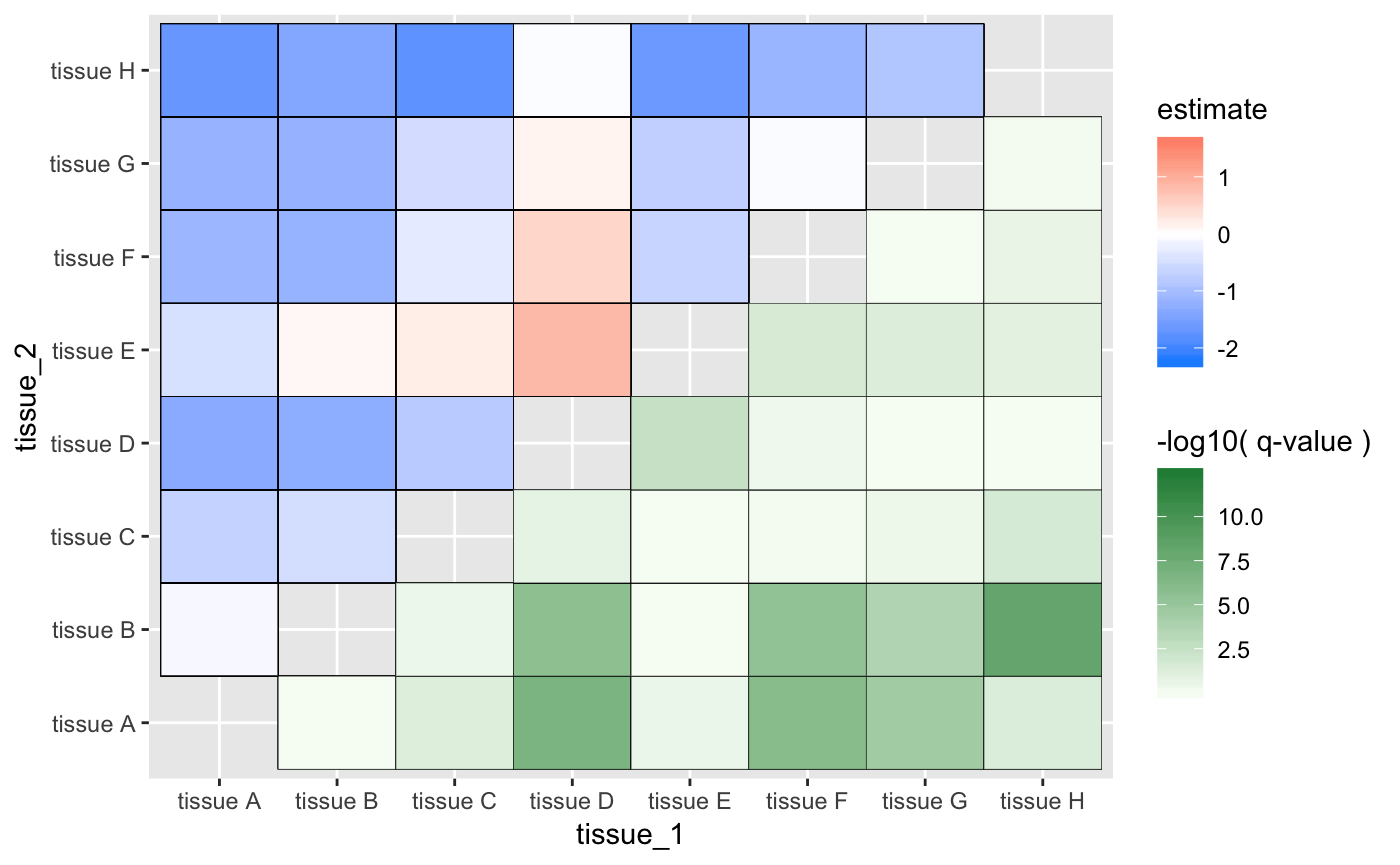
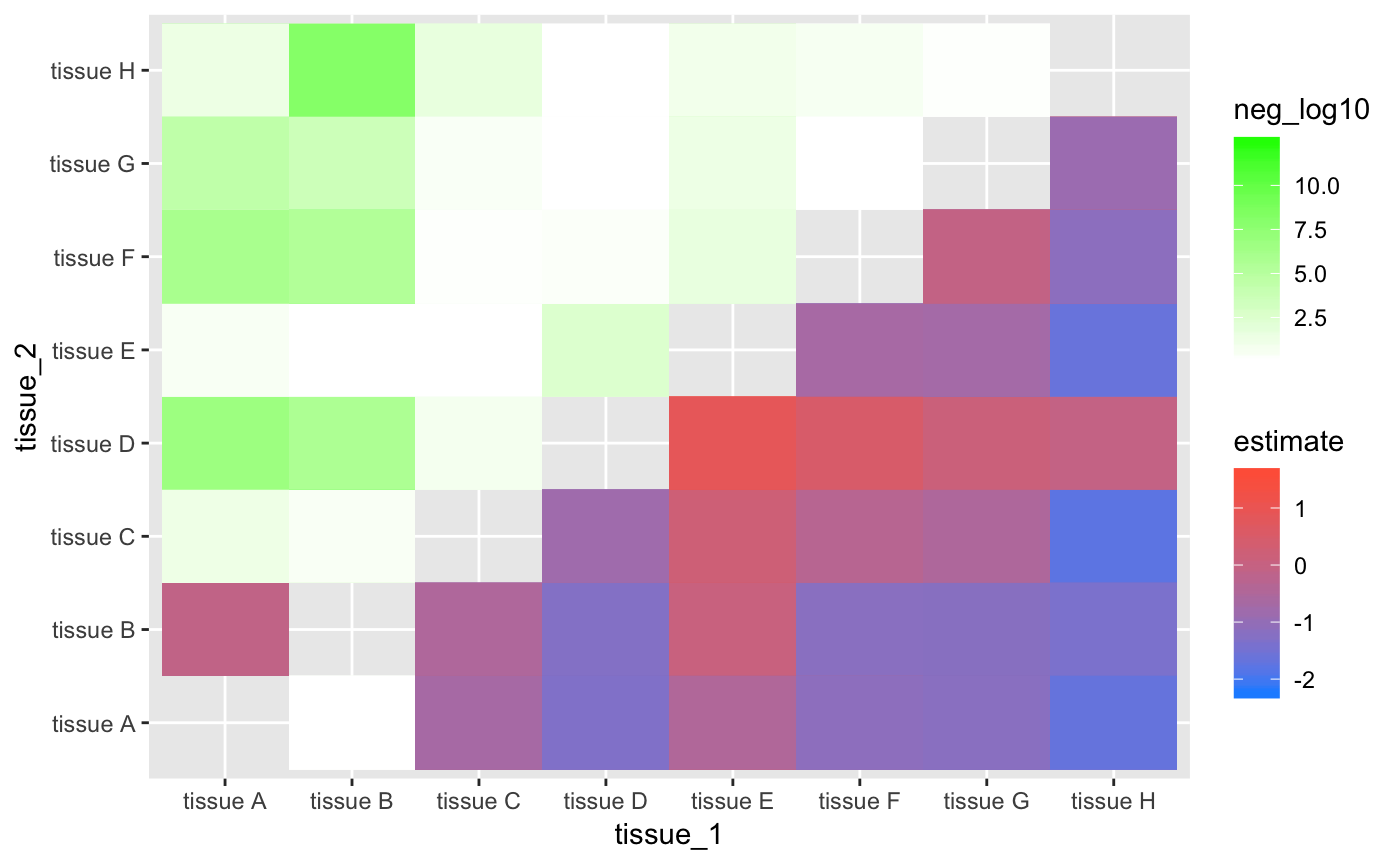
refactor: realized new method for same functionality

diff --git a/docs/articles/enrichment_example.html b/docs/articles/enrichment_example.html
@@ -86,7 +86,7 @@
       <h1>Plotting statistical significance and difference in values</h1>
                         <h4 class="author">Joshua H. Cook</h4>
             
-            <h4 class="date">2019-02-23</h4>
+            <h4 class="date">2019-02-24</h4>
       
       <small class="dont-index">Source: <a href="https://github.com/jhrcook/ggasym/blob/master/vignettes/enrichment_example.Rmd"><code>vignettes/enrichment_example.Rmd</code></a></small>
       <div class="hidden name"><code>enrichment_example.Rmd</code></div>
@@ -143,27 +143,34 @@
 <p>We can now plot by passing the data table to <code>geom_asymmat</code>, returning a ggplot object.</p>
 <div class="sourceCode" id="cb8"><pre class="sourceCode r"><code class="sourceCode r"><a class="sourceLine" id="cb8-1" data-line-number="1"><span class="kw"><a href="../reference/geom_asymmat.html">geom_asymmat</a></span>(enrich_data, tissue_<span class="dv">1</span>, tissue_<span class="dv">2</span>, estimate, neg_log10)</a></code></pre></div>
 <p><img src="enrichment_example_files/figure-html/unnamed-chunk-6-1.png" width="700"></p>
-<p>These 4 arguments are the only ones required, but the plot can be improved by passing values for the <code>color_tl/br</code> to color the lines between the tiles and <code>lab_tl/br</code> to label the scales for the top and bottom coloring schemes.</p>
-<div class="sourceCode" id="cb9"><pre class="sourceCode r"><code class="sourceCode r"><a class="sourceLine" id="cb9-1" data-line-number="1">g &lt;-<span class="st"> </span><span class="kw"><a href="../reference/geom_asymmat.html">geom_asymmat</a></span>(enrich_data, tissue_<span class="dv">1</span>, tissue_<span class="dv">2</span>, estimate, neg_log10,</a>
-<a class="sourceLine" id="cb9-2" data-line-number="2">                  <span class="dt">color_tl =</span> <span class="st">"black"</span>, <span class="dt">color_br =</span> <span class="st">"black"</span>,</a>
-<a class="sourceLine" id="cb9-3" data-line-number="3">                  <span class="dt">lab_tl =</span> <span class="st">"estimate"</span>, <span class="dt">lab_br =</span> <span class="st">"-log10( q-value )"</span>)</a>
-<a class="sourceLine" id="cb9-4" data-line-number="4"><span class="kw"><a href="https://www.rdocumentation.org/packages/graphics/topics/plot">plot</a></span>(g)</a></code></pre></div>
+<div class="sourceCode" id="cb9"><pre class="sourceCode r"><code class="sourceCode r"><a class="sourceLine" id="cb9-1" data-line-number="1"> <span class="kw"><a href="https://ggplot2.tidyverse.org/reference/ggplot.html">ggplot</a></span>(enrich_data) <span class="op">+</span></a>
+<a class="sourceLine" id="cb9-2" data-line-number="2"><span class="st">    </span><span class="kw"><a href="https://ggplot2.tidyverse.org/reference/geom_tile.html">geom_tile</a></span>(<span class="kw"><a href="https://ggplot2.tidyverse.org/reference/aes.html">aes</a></span>(<span class="dt">x =</span> tissue_<span class="dv">1</span>, <span class="dt">y =</span> tissue_<span class="dv">2</span>, <span class="dt">fill =</span> estimate)) <span class="op">+</span></a>
+<a class="sourceLine" id="cb9-3" data-line-number="3"><span class="st">    </span><span class="kw"><a href="https://ggplot2.tidyverse.org/reference/scale_gradient.html">scale_fill_gradient</a></span>(<span class="dt">low =</span> <span class="st">"dodgerblue"</span>, <span class="dt">high =</span> <span class="st">"tomato"</span>) <span class="op">+</span></a>
+<a class="sourceLine" id="cb9-4" data-line-number="4"><span class="st">    </span>ggnewscale<span class="op">::</span><span class="kw"><a href="https://www.rdocumentation.org/packages/ggnewscale/topics/new_scale">new_scale_fill</a></span>() <span class="op">+</span></a>
+<a class="sourceLine" id="cb9-5" data-line-number="5"><span class="st">    </span><span class="kw"><a href="https://ggplot2.tidyverse.org/reference/geom_tile.html">geom_tile</a></span>(<span class="kw"><a href="https://ggplot2.tidyverse.org/reference/aes.html">aes</a></span>(<span class="dt">x =</span> tissue_<span class="dv">2</span>, <span class="dt">y =</span> tissue_<span class="dv">1</span>, <span class="dt">fill =</span> neg_log10)) <span class="op">+</span></a>
+<a class="sourceLine" id="cb9-6" data-line-number="6"><span class="st">    </span><span class="kw"><a href="https://ggplot2.tidyverse.org/reference/scale_gradient.html">scale_fill_gradient</a></span>(<span class="dt">low =</span> <span class="st">"white"</span>, <span class="dt">high =</span> <span class="st">"green"</span>)</a></code></pre></div>
 <p><img src="enrichment_example_files/figure-html/unnamed-chunk-7-1.png" width="700"></p>
-<div class="sourceCode" id="cb10"><pre class="sourceCode r"><code class="sourceCode r"><a class="sourceLine" id="cb10-1" data-line-number="1"><span class="kw"><a href="https://www.rdocumentation.org/packages/base/topics/class">class</a></span>(g)</a></code></pre></div>
+<p>These 4 arguments are the only ones required, but the plot can be improved by passing values for the <code>color_tl/br</code> to color the lines between the tiles and <code>lab_tl/br</code> to label the scales for the top and bottom coloring schemes.</p>
+<div class="sourceCode" id="cb10"><pre class="sourceCode r"><code class="sourceCode r"><a class="sourceLine" id="cb10-1" data-line-number="1">g &lt;-<span class="st"> </span><span class="kw"><a href="../reference/geom_asymmat.html">geom_asymmat</a></span>(enrich_data, tissue_<span class="dv">1</span>, tissue_<span class="dv">2</span>, estimate, neg_log10,</a>
+<a class="sourceLine" id="cb10-2" data-line-number="2">                  <span class="dt">color_tl =</span> <span class="st">"black"</span>, <span class="dt">color_br =</span> <span class="st">"black"</span>,</a>
+<a class="sourceLine" id="cb10-3" data-line-number="3">                  <span class="dt">lab_tl =</span> <span class="st">"estimate"</span>, <span class="dt">lab_br =</span> <span class="st">"-log10( q-value )"</span>)</a>
+<a class="sourceLine" id="cb10-4" data-line-number="4"><span class="kw"><a href="https://www.rdocumentation.org/packages/graphics/topics/plot">plot</a></span>(g)</a></code></pre></div>
+<p><img src="enrichment_example_files/figure-html/unnamed-chunk-8-1.png" width="700"></p>
+<div class="sourceCode" id="cb11"><pre class="sourceCode r"><code class="sourceCode r"><a class="sourceLine" id="cb11-1" data-line-number="1"><span class="kw"><a href="https://www.rdocumentation.org/packages/base/topics/class">class</a></span>(g)</a></code></pre></div>
 <pre><code>## [1] "gg"     "ggplot"</code></pre>
 <p>Since the returned value is a ggplot object, it can be modified just like any other time you have used <code>ggplot() + geom_*()</code>. For example, I will remove the gap between the axes and the data.</p>
-<div class="sourceCode" id="cb12"><pre class="sourceCode r"><code class="sourceCode r"><a class="sourceLine" id="cb12-1" data-line-number="1">g &lt;-<span class="st"> </span>g <span class="op">+</span><span class="st"> </span><span class="kw"><a href="https://ggplot2.tidyverse.org/reference/scale_discrete.html">scale_x_discrete</a></span>(<span class="dt">expand =</span> <span class="kw"><a href="https://www.rdocumentation.org/packages/base/topics/c">c</a></span>(<span class="dv">0</span>, <span class="dv">0</span>)) <span class="op">+</span></a>
-<a class="sourceLine" id="cb12-2" data-line-number="2"><span class="st">    </span><span class="kw"><a href="https://ggplot2.tidyverse.org/reference/scale_discrete.html">scale_y_discrete</a></span>(<span class="dt">expand =</span> <span class="kw"><a href="https://www.rdocumentation.org/packages/base/topics/c">c</a></span>(<span class="dv">0</span>, <span class="dv">0</span>))</a>
-<a class="sourceLine" id="cb12-3" data-line-number="3"><span class="kw"><a href="https://www.rdocumentation.org/packages/graphics/topics/plot">plot</a></span>(g)</a></code></pre></div>
-<p><img src="enrichment_example_files/figure-html/unnamed-chunk-8-1.png" width="700"></p>
-<p>The values along the diagonal are all <code>NA</code>, therefore, the background color is just showing through. I will adjust the <code>theme</code> to make this look a bit better. I hope to implement a third <code>fill</code> aesthetic for these data points in the future.</p>
-<div class="sourceCode" id="cb13"><pre class="sourceCode r"><code class="sourceCode r"><a class="sourceLine" id="cb13-1" data-line-number="1">g &lt;-g <span class="op">+</span><span class="st"> </span><span class="kw"><a href="https://ggplot2.tidyverse.org/reference/theme.html">theme</a></span>(<span class="dt">panel.background =</span> <span class="kw"><a href="https://ggplot2.tidyverse.org/reference/element.html">element_rect</a></span>(<span class="dt">fill =</span> <span class="st">"grey50"</span>),</a>
-<a class="sourceLine" id="cb13-2" data-line-number="2">              <span class="dt">panel.border =</span> <span class="kw"><a href="https://ggplot2.tidyverse.org/reference/element.html">element_rect</a></span>(<span class="dt">fill =</span> <span class="ot">NA</span>, <span class="dt">color =</span> <span class="st">"black"</span>),</a>
-<a class="sourceLine" id="cb13-3" data-line-number="3">              <span class="dt">axis.title =</span> <span class="kw"><a href="https://ggplot2.tidyverse.org/reference/element.html">element_blank</a></span>(),</a>
-<a class="sourceLine" id="cb13-4" data-line-number="4">              <span class="dt">axis.text.x =</span> <span class="kw"><a href="https://ggplot2.tidyverse.org/reference/element.html">element_text</a></span>(<span class="dt">angle =</span> <span class="dv">45</span>, <span class="dt">hjust =</span> <span class="dv">1</span>),</a>
-<a class="sourceLine" id="cb13-5" data-line-number="5">              <span class="dt">panel.grid =</span> <span class="kw"><a href="https://ggplot2.tidyverse.org/reference/element.html">element_blank</a></span>())</a>
-<a class="sourceLine" id="cb13-6" data-line-number="6"><span class="kw"><a href="https://www.rdocumentation.org/packages/graphics/topics/plot">plot</a></span>(g)</a></code></pre></div>
+<div class="sourceCode" id="cb13"><pre class="sourceCode r"><code class="sourceCode r"><a class="sourceLine" id="cb13-1" data-line-number="1">g &lt;-<span class="st"> </span>g <span class="op">+</span><span class="st"> </span><span class="kw"><a href="https://ggplot2.tidyverse.org/reference/scale_discrete.html">scale_x_discrete</a></span>(<span class="dt">expand =</span> <span class="kw"><a href="https://www.rdocumentation.org/packages/base/topics/c">c</a></span>(<span class="dv">0</span>, <span class="dv">0</span>)) <span class="op">+</span></a>
+<a class="sourceLine" id="cb13-2" data-line-number="2"><span class="st">    </span><span class="kw"><a href="https://ggplot2.tidyverse.org/reference/scale_discrete.html">scale_y_discrete</a></span>(<span class="dt">expand =</span> <span class="kw"><a href="https://www.rdocumentation.org/packages/base/topics/c">c</a></span>(<span class="dv">0</span>, <span class="dv">0</span>))</a>
+<a class="sourceLine" id="cb13-3" data-line-number="3"><span class="kw"><a href="https://www.rdocumentation.org/packages/graphics/topics/plot">plot</a></span>(g)</a></code></pre></div>
 <p><img src="enrichment_example_files/figure-html/unnamed-chunk-9-1.png" width="700"></p>
+<p>The values along the diagonal are all <code>NA</code>, therefore, the background color is just showing through. I will adjust the <code>theme</code> to make this look a bit better. I hope to implement a third <code>fill</code> aesthetic for these data points in the future.</p>
+<div class="sourceCode" id="cb14"><pre class="sourceCode r"><code class="sourceCode r"><a class="sourceLine" id="cb14-1" data-line-number="1">g &lt;-g <span class="op">+</span><span class="st"> </span><span class="kw"><a href="https://ggplot2.tidyverse.org/reference/theme.html">theme</a></span>(<span class="dt">panel.background =</span> <span class="kw"><a href="https://ggplot2.tidyverse.org/reference/element.html">element_rect</a></span>(<span class="dt">fill =</span> <span class="st">"grey50"</span>),</a>
+<a class="sourceLine" id="cb14-2" data-line-number="2">              <span class="dt">panel.border =</span> <span class="kw"><a href="https://ggplot2.tidyverse.org/reference/element.html">element_rect</a></span>(<span class="dt">fill =</span> <span class="ot">NA</span>, <span class="dt">color =</span> <span class="st">"black"</span>),</a>
+<a class="sourceLine" id="cb14-3" data-line-number="3">              <span class="dt">axis.title =</span> <span class="kw"><a href="https://ggplot2.tidyverse.org/reference/element.html">element_blank</a></span>(),</a>
+<a class="sourceLine" id="cb14-4" data-line-number="4">              <span class="dt">axis.text.x =</span> <span class="kw"><a href="https://ggplot2.tidyverse.org/reference/element.html">element_text</a></span>(<span class="dt">angle =</span> <span class="dv">45</span>, <span class="dt">hjust =</span> <span class="dv">1</span>),</a>
+<a class="sourceLine" id="cb14-5" data-line-number="5">              <span class="dt">panel.grid =</span> <span class="kw"><a href="https://ggplot2.tidyverse.org/reference/element.html">element_blank</a></span>())</a>
+<a class="sourceLine" id="cb14-6" data-line-number="6"><span class="kw"><a href="https://www.rdocumentation.org/packages/graphics/topics/plot">plot</a></span>(g)</a></code></pre></div>
+<p><img src="enrichment_example_files/figure-html/unnamed-chunk-10-1.png" width="700"></p>
   </div>
 
   <div class="col-md-3 hidden-xs hidden-sm" id="sidebar">

diff --git a/docs/articles/ggasym-vignette.html b/docs/articles/ggasym-vignette.html
@@ -86,7 +86,7 @@
       <h1>ggasym</h1>
                         <h4 class="author">Joshua H. Cook</h4>
             
-            <h4 class="date">2019-02-23</h4>
+            <h4 class="date">2019-02-24</h4>
       
       <small class="dont-index">Source: <a href="https://github.com/jhrcook/ggasym/blob/master/vignettes/ggasym-vignette.Rmd"><code>vignettes/ggasym-vignette.Rmd</code></a></small>
       <div class="hidden name"><code>ggasym-vignette.Rmd</code></div>
